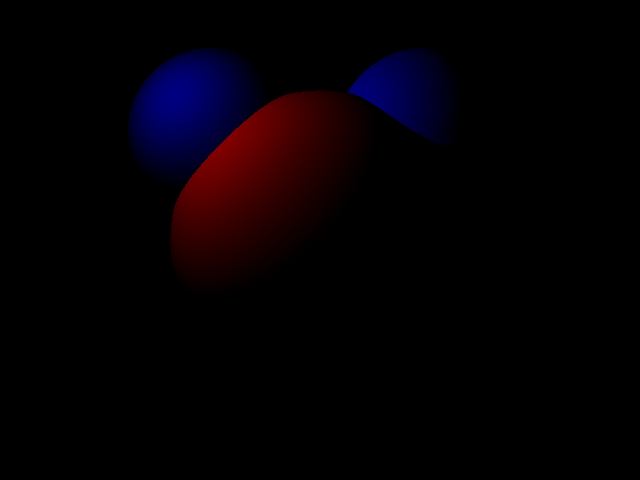
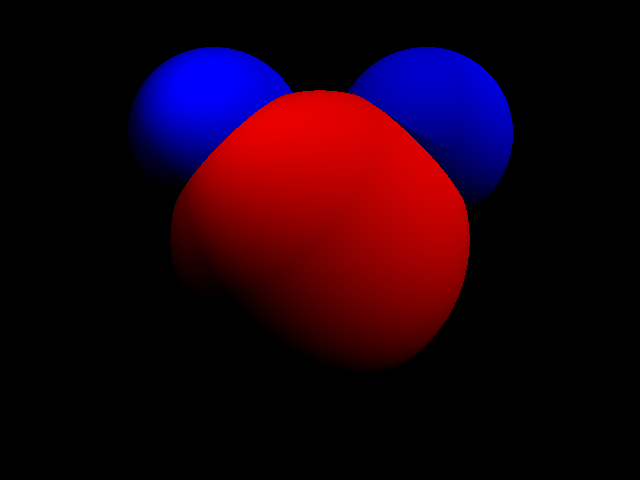
rendu cohérent mais un poil trop lumineux, a resoudre

Changed region(s): [[0.2188, 0.0938, 0.8125, 0.7812]]

diff --git a/src/main/java/RayTracer/geometry/Intersection.java b/src/main/java/RayTracer/geometry/Intersection.java
@@ -37,6 +37,10 @@ public class Intersection {
     }
 	
 	
+	public Point getPosition() {
+		return position;
+	}
+
 	public Color computeDiffusionLambert(Light light) {
 		if (light instanceof DirectionalLight dirLight) {
 			return computeDiffusionLambert(dirLight);
@@ -63,6 +67,36 @@ public class Intersection {
 	
 	
 	
+	public Color computeBlinnPhong(Light light, Vector eyeDir) {
+		if (light instanceof DirectionalLight dirLight) {
+			return computeBlinnPhong(dirLight, eyeDir);
+		}
+		else if (light instanceof PointLight pointLight) {
+			return computeBlinnPhong(pointLight, eyeDir);
+		}
+		return new Color();
+	}
+	
+	private Color computeBlinnPhong(DirectionalLight light, Vector eyeDir) {
+		Vector lightDir = getDirectionToLight(light).multByScalar(-1d);
+		Vector h = lightDir.add(eyeDir).normalisation();
+		return this.shape.getSpecular()
+				.schurProduct(light.getColor())
+				.multiply(Math.pow(Math.max(0d, h.produitScalaire(this.normale)), this.shape.getShininess()));
+	}
+	private Color computeBlinnPhong(PointLight light, Vector eyeDir) {
+		Vector lightDir = getDirectionToLight(light);
+		Vector h = lightDir.add(eyeDir).normalisation();
+		return this.shape.getSpecular()
+				.schurProduct(light.getColor())
+				.multiply(Math.pow(	Math.max(0d, h.produitScalaire(this.normale)), this.shape.getShininess()	));
+	}
+	
+	
+	
+	
+	
+	
 	public boolean isShadowed(Light light, Scene scene) {
 		if (light instanceof DirectionalLight dirLight) {
 			return isShadowed(dirLight, scene);
@@ -74,15 +108,15 @@ public class Intersection {
 	}
 	
 	private boolean isShadowed(DirectionalLight light,Scene scene) {
-		Vector directionToLight = light.getDirection().normalisation().multByScalar(-1);
-		Ray shadowRay = new Ray(directionToLight.multByScalar(1e-4).add(this.position), directionToLight);
+		Vector directionToLight = light.getDirection().normalisation();
+		Ray shadowRay = new Ray(directionToLight.multByScalar(1e-4d).add(this.position), directionToLight);
 		Optional<Intersection> shadowSource = scene.findClosestIntersection(shadowRay);		
 		return shadowSource.isPresent();		
 	}
 	
 	private boolean isShadowed(PointLight light, Scene scene) {
 		Vector directionToLight = light.getOrigin().sub(this.position).normalisation();
-		Ray shadowRay = new Ray(directionToLight.multByScalar(1e-4).add(this.position), directionToLight);
+		Ray shadowRay = new Ray(directionToLight.multByScalar(1e-4d).add(this.position), directionToLight);
 		Optional<Intersection> shadowSource = scene.findClosestIntersection(shadowRay);
 		return shadowSource.isPresent();
 	}
@@ -91,7 +125,15 @@ public class Intersection {
 	
 	
 	
-	
+	private Vector getDirectionToLight(Light light) {
+	    if (light instanceof DirectionalLight dir) {
+	        return dir.getDirection().multByScalar(-1d).normalisation();
+	    }
+	    if (light instanceof PointLight point) {
+	        return point.getOrigin().sub(this.position).normalisation();
+	    }
+	    return new Vector(0,0,0);
+	}
 	
 	
 }

diff --git a/src/main/java/RayTracer/SceneFileParser.java b/src/main/java/RayTracer/SceneFileParser.java
@@ -40,7 +40,7 @@ public class SceneFileParser {
 	
 	private Color lastDiffuse = new Color();	// vont changer pour chaque Shape
 	private Color lastSpecular = new Color();	
-	private Color lastShininess = new Color();
+	private Double lastShininess=0d;
 	
 	private int maxverts = -1;
 	
@@ -248,11 +248,7 @@ public class SceneFileParser {
 	
 	private void setShininess(String parsedLine) {
 		try {
-			this.lastShininess = new Color(
-					Double.parseDouble(parsedLine.split(" ")[1]),
-					Double.parseDouble(parsedLine.split(" ")[2]),
-					Double.parseDouble(parsedLine.split(" ")[3])
-					);
+			this.lastShininess = Double.parseDouble(parsedLine.split(" ")[1]);
 		}catch(Exception e) {
 			throw new IllegalArgumentException("[!] Erreur lors de la lecture de l'attribut shininess : " + parsedLine + "\n" + e);
 		}
@@ -360,7 +356,7 @@ public class SceneFileParser {
 					throw new IllegalArgumentException("[!] Erreur : les composantes de la somme ambient+diffuse ne doit pas excéder 1.");
 				}
 			}
-			this.shapes.add(new Triangle(a, b, c, specular, diffuse));
+			this.shapes.add(new Triangle(a, b, c, specular, diffuse, this.lastShininess));
 		}catch(Exception e) {
 			throw new IllegalArgumentException("[!] Erreur lors de la lecture de l'attribut tri : " + parsedLine + "\n" + e);
 		}
@@ -386,7 +382,7 @@ public class SceneFileParser {
 					throw new IllegalArgumentException("[!] Erreur : les composantes de la somme ambient+diffuse ne doit pas excéder 1.");
 				}
 			}
-			this.shapes.add(new Sphere(center, radius, specular, diffuse));
+			this.shapes.add(new Sphere(center, radius, specular, diffuse, this.lastShininess));
 		}catch(Exception e) {
 			throw new IllegalArgumentException("[!] Erreur lors de la lecture de l'attribut sphere : " + parsedLine + "\n" + e);
 		}
@@ -416,7 +412,7 @@ public class SceneFileParser {
 					throw new IllegalArgumentException("[!] Erreur : les composantes de la somme ambient+diffuse ne doit pas excéder 1.");
 				}
 			}
-			this.shapes.add(new Plane(position, normale, specular, diffuse));
+			this.shapes.add(new Plane(position, normale, specular, diffuse, this.lastShininess));
 		}catch(Exception e) {
 			throw new IllegalArgumentException("[!] Erreur lors de la lecture de l'attribut tri : " + parsedLine + "\n" + e);
 		}

diff --git a/src/main/java/RayTracer/RayTracer.java b/src/main/java/RayTracer/RayTracer.java
@@ -26,21 +26,21 @@ public class RayTracer {
 		//calculate d ray
 		Vector d = computeD(i, j, pixel);
 		Ray ray = new Ray(scene.getCamera().getPosition(), d);
-		//find intersection p
 		
+		//find intersection p
 		Optional<Intersection> p = scene.findClosestIntersection(ray);
 		if( p.isPresent()) {
+			Vector eyeDir = this.scene.getCamera().getPosition().sub(p.get().getPosition()).normalisation();
 			
 			Color couleurPoint = new Color(this.scene.getAmbient());
 			for(int l=0; l<this.scene.getLights().size(); l++) {
 				if (! p.get().isShadowed(this.scene.getLights().get(l), this.scene)) {
-					couleurPoint = couleurPoint.add(p.get().computeDiffusionLambert(this.scene.getLights().get(l)));					
+					couleurPoint = couleurPoint.add(p.get().computeDiffusionLambert(this.scene.getLights().get(l)));	
+					couleurPoint = couleurPoint.add(p.get().computeBlinnPhong(this.scene.getLights().get(l), eyeDir));
 				}				
 			}
 			p.get().setColor(couleurPoint);
 			return p.get().getColor();
-			
-			//return scene.getAmbient();
 		}
 		else {
 			return new Color();

diff --git a/src/main/java/RayTracer/geometry/Sphere.java b/src/main/java/RayTracer/geometry/Sphere.java
@@ -11,7 +11,7 @@ public class Sphere implements Shape{
 	private double radius;
 	private Color specular;
 	private Color diffuse;
-	
+	private Double shininess;
 	
 	public Color getSpecular() {
 		return specular;
@@ -19,19 +19,23 @@ public class Sphere implements Shape{
 	public Color getDiffuse() {
 		return diffuse;
 	}
+	public Double getShininess() {
+		return shininess;
+	}
 	
-	
-	public Sphere(double x, double y, double z, double radius, Color specular, Color diffuse) {
+	public Sphere(double x, double y, double z, double radius, Color specular, Color diffuse, Double shininess) {
 		this.center = new Point(x, y, z);
 		this.radius= radius;
 		this.specular = specular;
 		this.diffuse = diffuse;
+		this.shininess = shininess;
 	}
-	public Sphere(Point center, double radius, Color specular, Color diffuse) {
+	public Sphere(Point center, double radius, Color specular, Color diffuse, Double shininess) {
 		this.center = center;
 		this.radius= radius;
 		this.specular = specular;
 		this.diffuse = diffuse;
+		this.shininess = shininess;
 	}
 	
 	

diff --git a/src/main/java/ImageComparator/Main.java b/src/main/java/ImageComparator/Main.java
@@ -15,8 +15,8 @@ import javax.imageio.ImageIO;
 public class Main{
 	
 	public static void main(String[] args) {
-		if(args.length != 3){    
-			System.out.println("[!] Paramètres: fichier1.png fichier2.png fichier_export.png");
+		if(args.length != 2){    
+			System.out.println("[!] Paramètres: fichier1.png fichier2.png ");
             throw new IllegalArgumentException("Incorrect count of parameters, received "+ args.length);
         }
 		
@@ -38,7 +38,7 @@ public class Main{
         
         BufferedImage imageDifferentielle = comparateur.imageDifferencielle(img1, img2);
         
-        String savedImage = saveImage(imageDifferentielle, args[2]);
+        String savedImage = saveImage(imageDifferentielle, Paths.get(System.getProperty("user.dir")+"/imageDiff.png").toString());
         
         if (savedImage != null) System.out.println("Image différentielle créée à " + savedImage);
 	}

diff --git a/src/main/java/RayTracer/geometry/Plane.java b/src/main/java/RayTracer/geometry/Plane.java
@@ -13,7 +13,7 @@ public class Plane implements Shape{
 	
 	private Color specular;
 	private Color diffuse;
-	
+	private Double shininess;
 	
 	public Color getSpecular() {
 		return specular;
@@ -21,14 +21,17 @@ public class Plane implements Shape{
 	public Color getDiffuse() {
 		return diffuse;
 	}
+	public Double getShininess() {
+		return shininess;
+	}
 	
 	
-	
-	public Plane(Point position, Vector normale, Color specular, Color diffuse) {
+	public Plane(Point position, Vector normale, Color specular, Color diffuse, Double shininess) {
 		this.normale = normale;
 		this.position = position;
 		this.specular = specular;
 		this.diffuse = diffuse;
+		this.shininess = shininess;
 	}
 
 	public Optional<Intersection> intersect(Ray rayon) {

diff --git a/src/main/java/RayTracer/geometry/Triangle.java b/src/main/java/RayTracer/geometry/Triangle.java
@@ -13,6 +13,7 @@ public class Triangle implements Shape{
 
 	private Color specular;
 	private Color diffuse;
+	private Double shininess;
 	
 	
 	public Color getSpecular() {
@@ -21,13 +22,17 @@ public class Triangle implements Shape{
 	public Color getDiffuse() {
 		return diffuse;
 	}
+	public Double getShininess() {
+		return shininess;
+	}
 	
-	public Triangle(Point a, Point b, Point c, Color specular, Color diffuse) {
+	public Triangle(Point a, Point b, Point c, Color specular, Color diffuse, Double shininess) {
 		this.a = a;
 		this.b = b;
 		this.c = c;
 		this.specular = specular;
 		this.diffuse = diffuse;
+		this.shininess = shininess;
 	}
 	
 	

diff --git a/src/main/java/RayTracer/Main.java b/src/main/java/RayTracer/Main.java
@@ -20,7 +20,7 @@ public class Main {
 		String GIT_ROOT_DIR = System.getProperty("user.dir");
 		String SCENES = GIT_ROOT_DIR + "/TestScenes";					// Répertoire global des scènes de test
 		String resultImagesDir = GIT_ROOT_DIR + "/ResultScenesImages";	// Répertoire où placer les nouvelles images générées
-		String[] sceneDirs = { "/jalon2", "/jalon3", "/jalon4" };	// Répertoires de scènes à traiter
+		String[] sceneDirs = { /*"/jalon2", "/jalon3",*/ "/jalon4", "/jalon5" };	// Répertoires de scènes à traiter
 		
 		
 		

diff --git a/src/main/java/ImageComparator/ImageComparator.java b/src/main/java/ImageComparator/ImageComparator.java
@@ -48,6 +48,16 @@ public class ImageComparator {
 				imageDifferentielle.setRGB(x, y, image1.getRGB(x, y)-image2.getRGB(x, y));
 			}
 		}
+		/*
+		for (int x=0; x<minWidth ; x++) {
+			for (int y=0; y<minHeight ; y++) {
+				if(Math.abs(image1.getRGB(x, y)-image2.getRGB(x, y)) > 0d) {
+					imageDifferentielle.setRGB(x, y, 255);
+				}else {
+					imageDifferentielle.setRGB(x, y, 0);
+				}
+			}
+		}*/
 		
 		
 		// étend aux dimensions de l'image la plus grande

diff --git a/src/main/java/RayTracer/geometry/Shape.java b/src/main/java/RayTracer/geometry/Shape.java
@@ -11,5 +11,5 @@ public interface Shape {
 	
 	Color getDiffuse();
 	Color getSpecular();
-
+	Double getShininess();
 }
